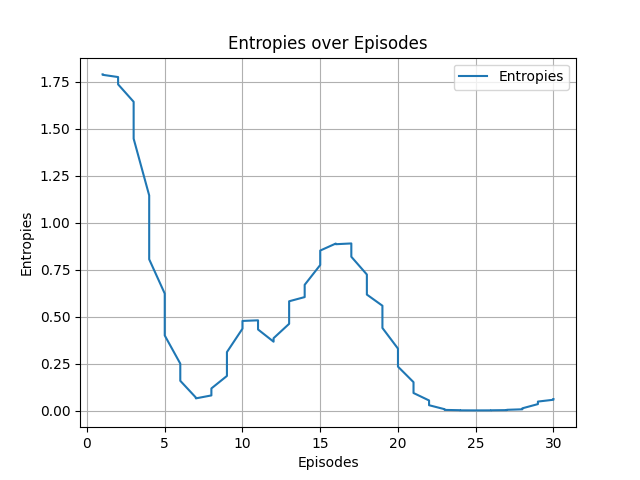
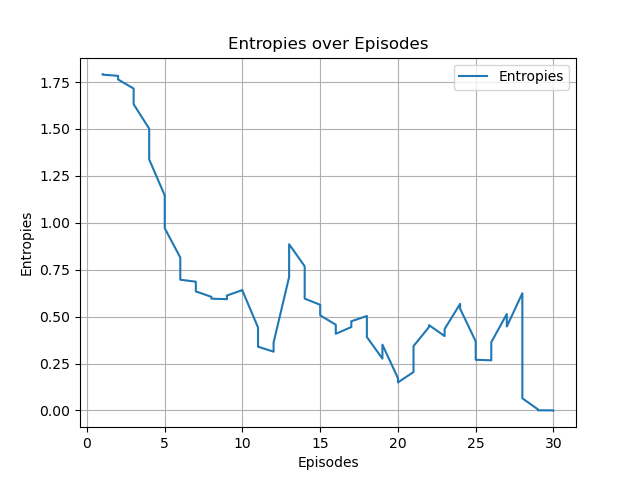
removed pandas import

diff --git a/visualize_metrics.py b/visualize_metrics.py
@@ -110,7 +110,7 @@ def visualize_metrics(log_file=None, csv_file=None, save_dir=None):
 
 # Example usage
 if __name__ == "__main__":
-    log_file_path = "logs/fpa_game_logs_20241205-044749.log"
+    log_file_path = "logs/fpa_game_logs_20241205-043941.log"
     save_plots_directory = "plots"  # Directory to save plots
     visualize_metrics(log_file=log_file_path, save_dir=save_plots_directory)
     print("Visualization complete.")
